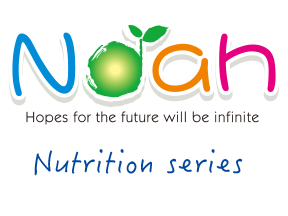
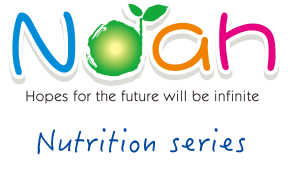
test

diff --git a/Nutrition With Fiber.html b/Nutrition With Fiber.html
@@ -43,7 +43,7 @@
 
                 <section>
                     <center>
-                        <div class="series"><img src="images/系列介紹圖_順暢.png" alt="順暢"></div>
+                        <div class="series2"><img src="images/系列介紹圖_順暢.png" alt="順暢"></div>
                     </center>
                     <section class="cover">
                         <div class="covershow">

diff --git a/css/style.css b/css/style.css
@@ -1682,6 +1682,11 @@ p.look {
     margin-bottom: -37px;
 }
 
+.series2 {
+    margin-top: -1.5rem;
+    margin-bottom: -1.5rem;
+}
+
 @media only screen and (min-width: 0px) and (max-width: 800px) {
     .series {
         margin-top: 0rem;
